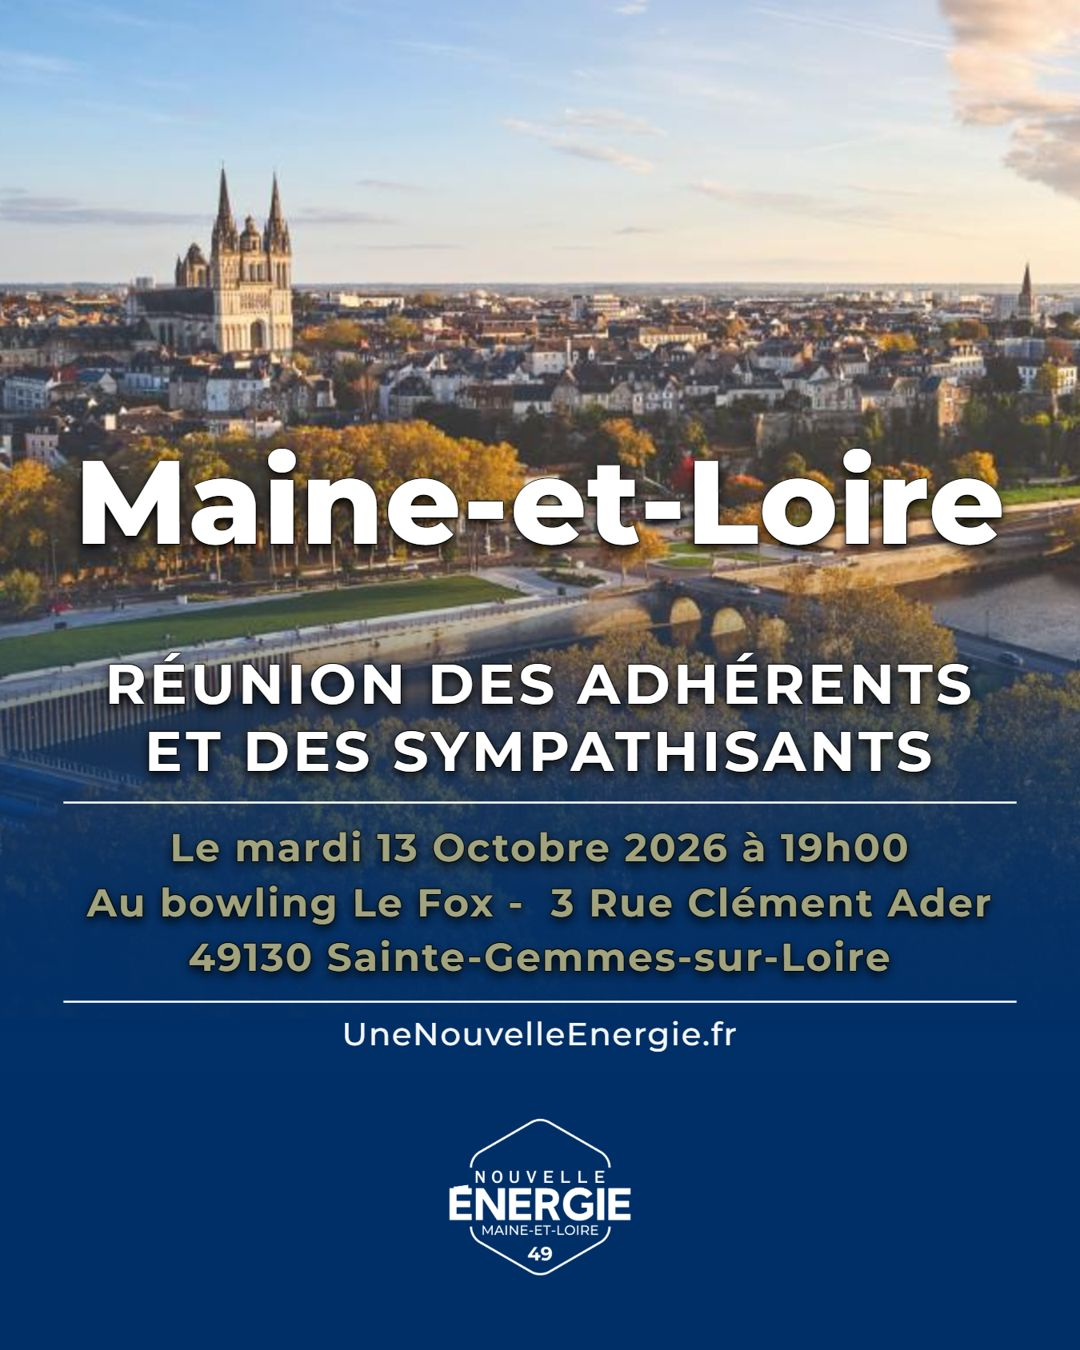
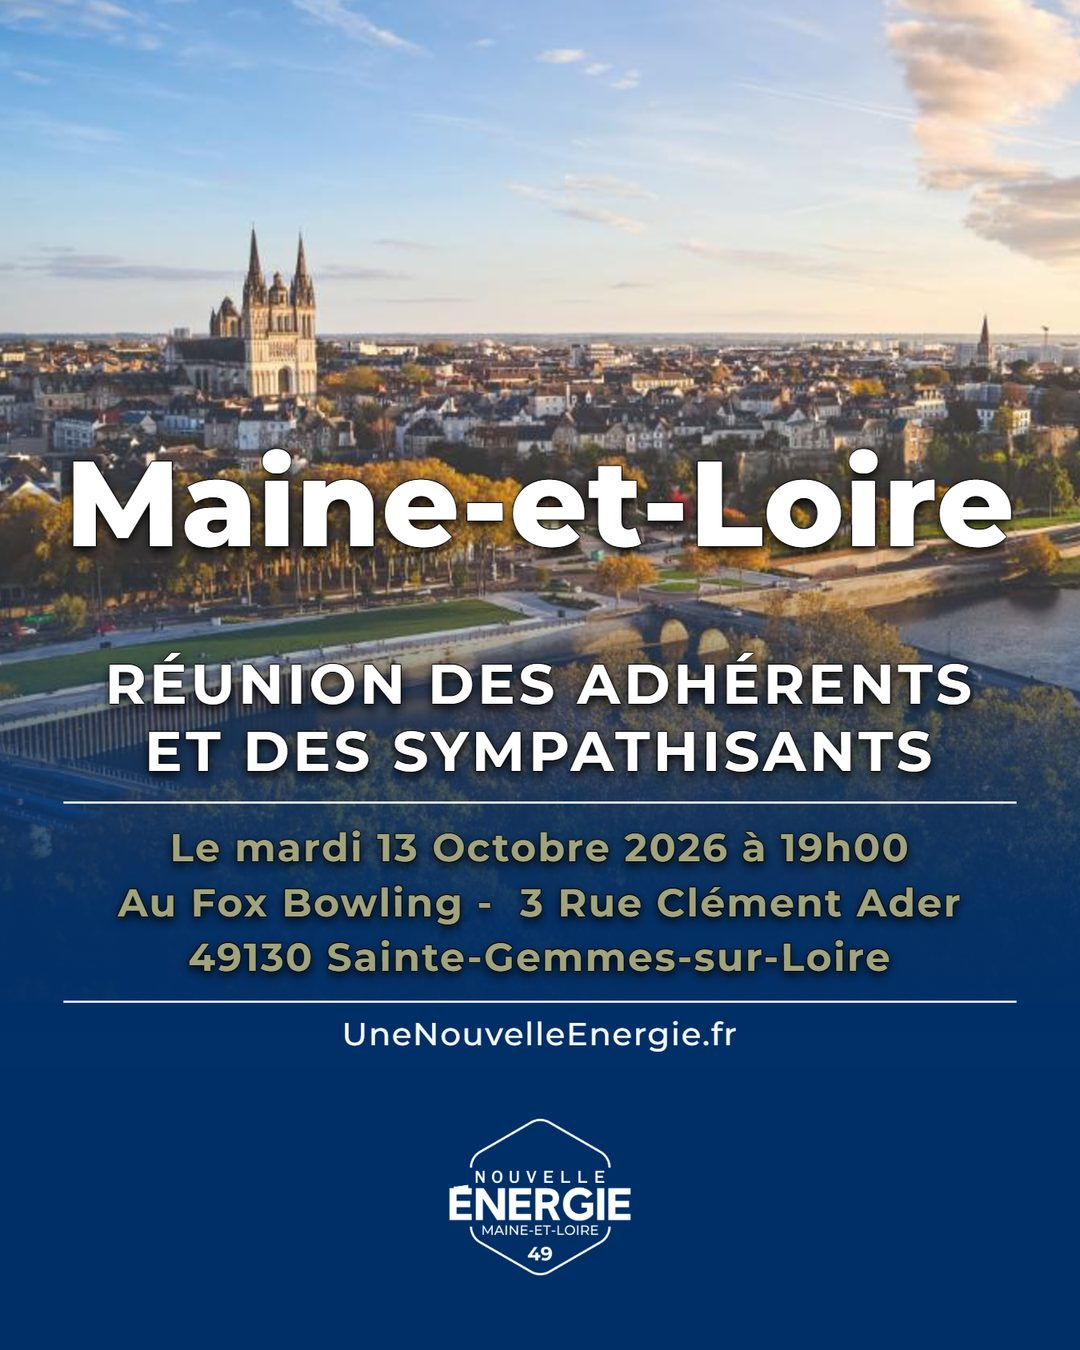
Nouvelle affiche réunion du 13 octobre (Fox Bowling)

diff --git a/index.html b/index.html
@@ -202,7 +202,7 @@
         <p class="lieu">Réunion des adhérents et sympathisants - Bowling le Fox à Sainte Gemmes-sur-Loire</p>
       </div>
       <a class="cta" href="https://action.qomon.org/5229dc9b-reunion-des-adherents-et-des-sympathisants/" target="_blank" rel="noopener">S'inscrire</a>
-      <a class="poster" href="assets/posters/reunion-2026-10-13.jpg" target="_blank" rel="noopener" title="Voir l'affiche en grand"><img src="assets/posters/reunion-2026-10-13-thumb.jpg" alt="Affiche - Réunion des adhérents et sympathisants, 13 octobre" width="120" height="150" loading="lazy"></a>
+      <a class="poster" href="assets/posters/reunion-2026-10-13.jpg?v=2" target="_blank" rel="noopener" title="Voir l'affiche en grand"><img src="assets/posters/reunion-2026-10-13-thumb.jpg?v=2" alt="Affiche - Réunion des adhérents et sympathisants, 13 octobre" width="120" height="150" loading="lazy"></a>
       <div class="links">
         <a href="https://www.google.com/maps/search/?api=1&amp;query=Bowling+le+Fox+Sainte-Gemmes-sur-Loire" target="_blank" rel="noopener"><svg class="ic" viewBox="0 0 24 24" aria-hidden="true"><path fill="currentColor" d="M12 2C8.13 2 5 5.13 5 9c0 5.25 7 13 7 13s7-7.75 7-13c0-3.87-3.13-7-7-7zm0 9.5a2.5 2.5 0 0 1 0-5 2.5 2.5 0 0 1 0 5z"/></svg>Google Maps</a>
         <a href="assets/ics/2026-10-13-reunion-adherents.ics" download><svg class="ic" viewBox="0 0 24 24" aria-hidden="true"><path fill="currentColor" d="M17 12h-5v5h5v-5zM16 1v2H8V1H6v2H5c-1.11 0-1.99.9-1.99 2L3 19c0 1.1.89 2 2 2h14c1.1 0 2-.9 2-2V5c0-1.1-.9-2-2-2h-1V1h-2zm3 18H5V8h14v11z"/></svg>Ajouter au calendrier</a>
